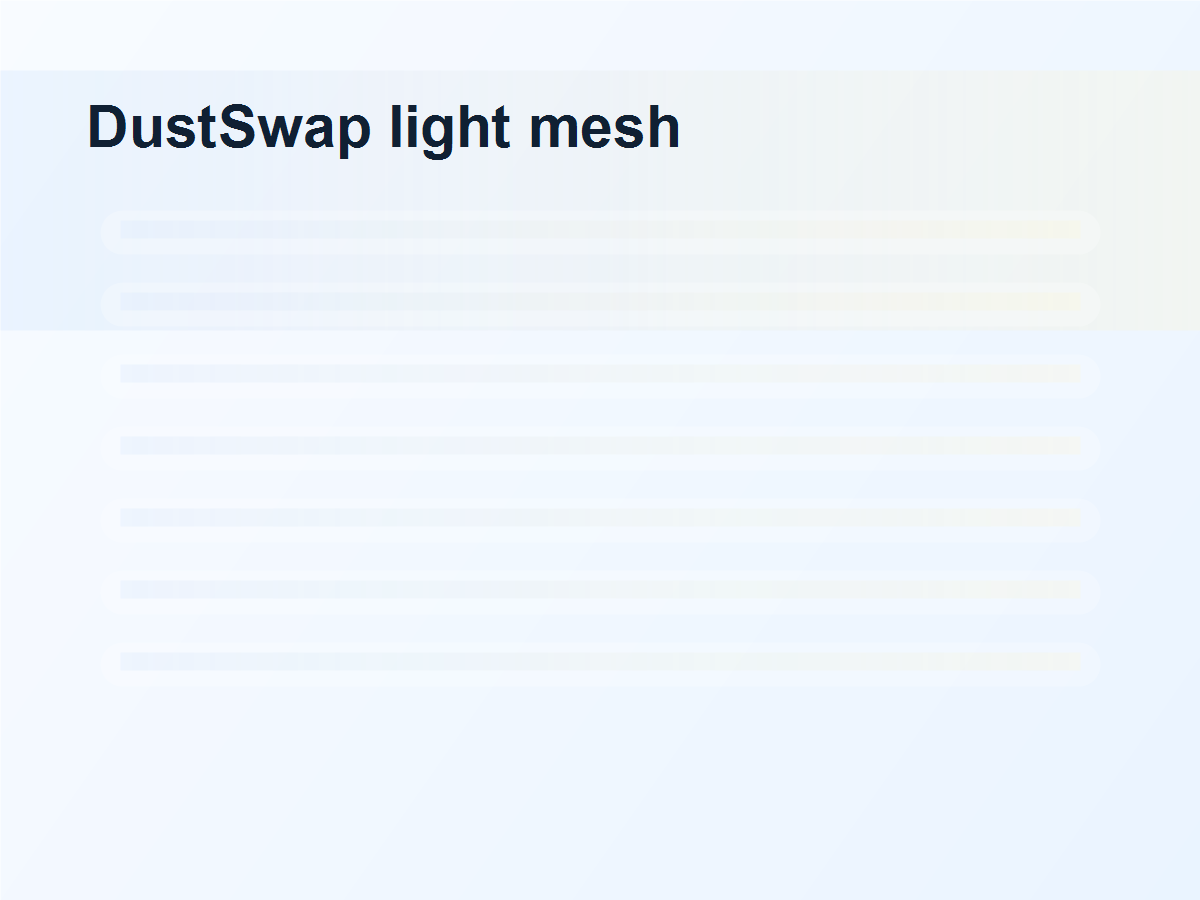
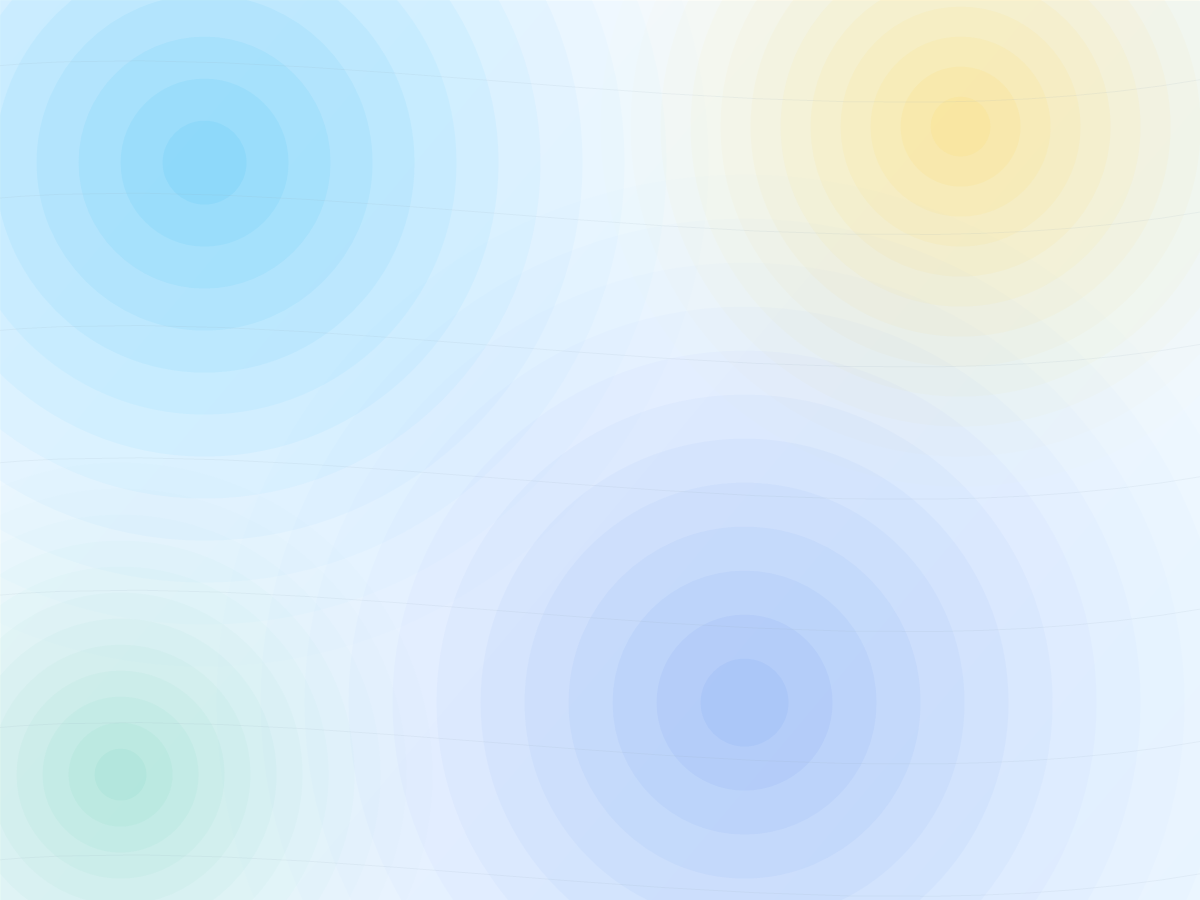
Refactor code structure for improved readability and maintainability

diff --git a/apps/site/README.md b/apps/site/README.md
@@ -1,0 +1,30 @@
+# DustSwap Site
+
+Marketing site for `dustswap.wtf`. The product app remains at `app.dustswap.wtf`.
+
+## Local
+
+```bash
+pnpm install
+pnpm dev
+```
+
+## Verify
+
+```bash
+pnpm type-check
+pnpm build
+pnpm exec opennextjs-cloudflare build
+```
+
+## Deploy To Cloudflare
+
+```bash
+pnpm deploy
+```
+
+The Worker is configured as `dustswap-site` and attaches to the custom domain
+`dustswap.wtf` through `wrangler.jsonc`.
+
+Before first deploy, make sure the Cloudflare account has the `dustswap.wtf`
+zone and that no conflicting DNS record already owns the root hostname.
